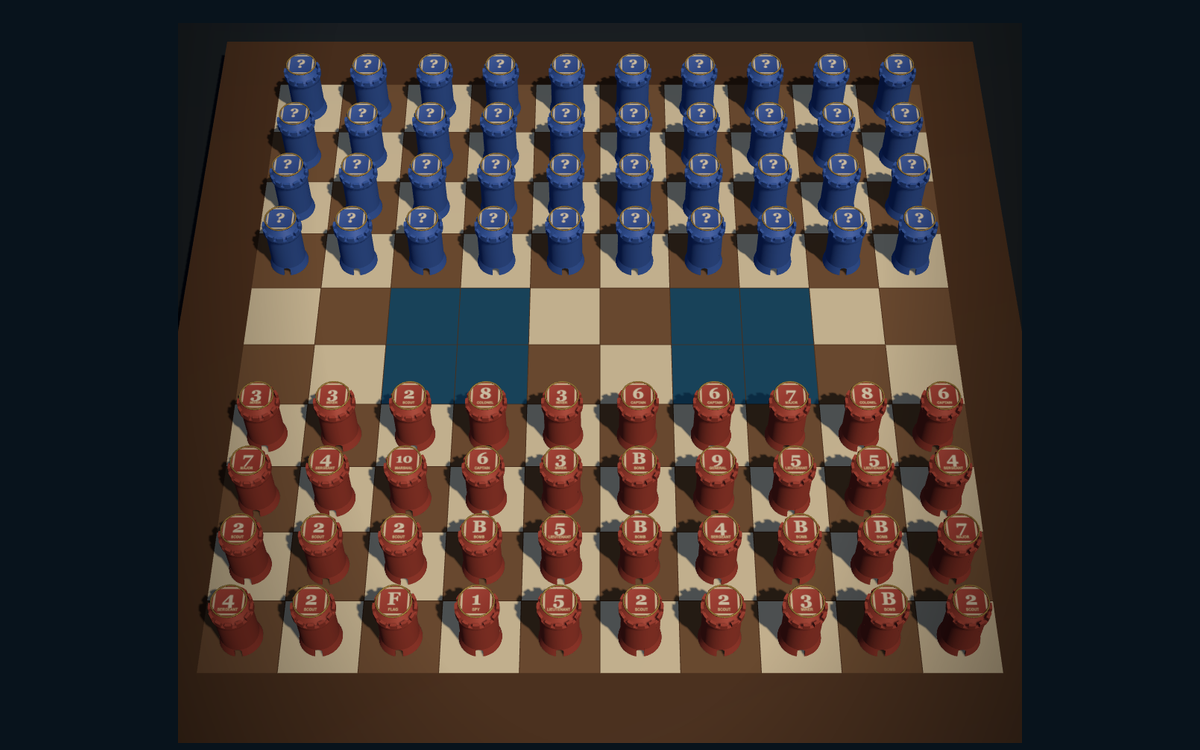
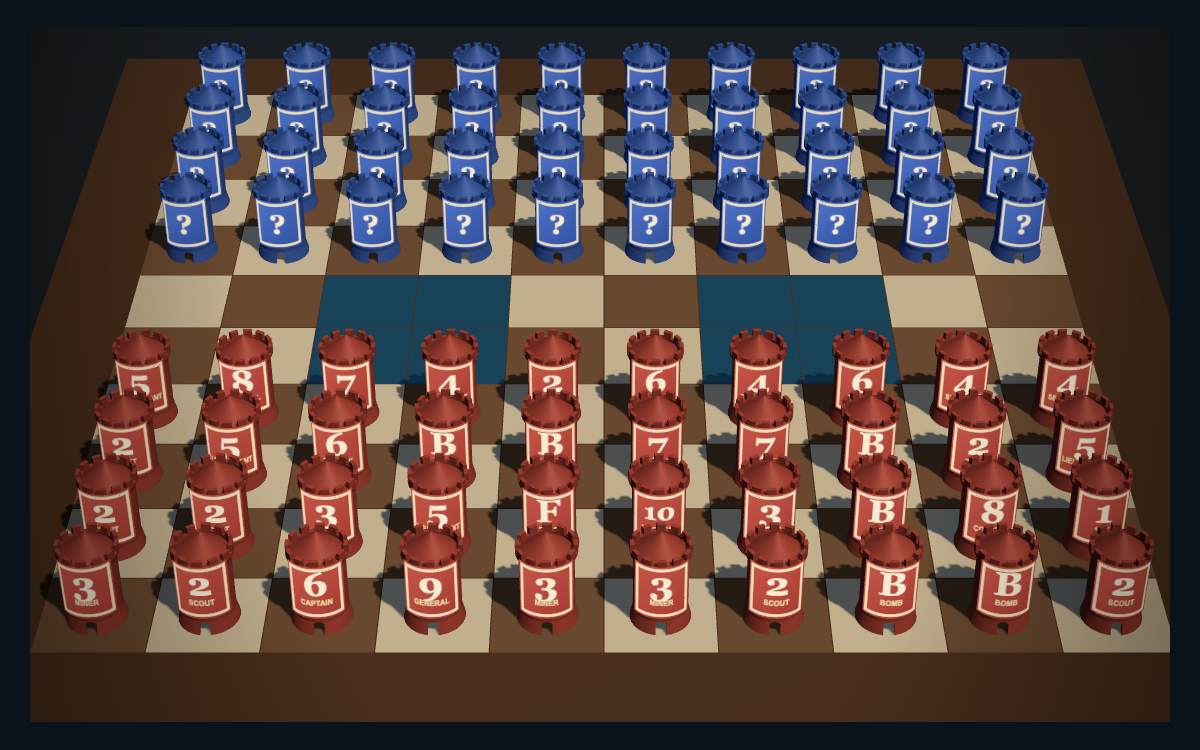
Put Stratego rank plates on the side of each tower
Every piece now carries its number and name on a curved plate wrapped around
the tower, turned towards whoever is playing, with a question mark for pieces
that are still hidden. The plate is lit flat so the printing stays readable in
the board's shadow, and the front-page card was re-shot with the new look.

diff --git a/games/stratego.html b/games/stratego.html
@@ -329,9 +329,9 @@ function labelTexture(rank,side,hidden){
   g.fillStyle='#f7ecd2';g.textAlign='center';g.textBaseline='middle';
   if(hidden){g.font='bold 74px Georgia,serif';g.fillText('?',64,66)}
   else{
-    const big=rank==='10'?56:rank.length>1?56:74;
-    g.font='bold '+big+'px Georgia,serif';g.fillText(rank,64,58);
-    g.font='600 17px Arial Narrow,Arial';g.fillStyle='#f0d9a8';g.fillText(NAME[rank].toUpperCase(),64,100);
+    const big=rank==='10'?58:rank.length>1?60:80;
+    g.font='bold '+big+'px Georgia,serif';g.fillText(rank,64,48);
+    g.font='600 19px Arial Narrow,Arial';g.fillStyle='#f0d9a8';g.fillText(NAME[rank].toUpperCase(),64,91);
   }
   const tex=new THREE.CanvasTexture(cv);tex.colorSpace=THREE.SRGBColorSpace;tex.anisotropy=4;
   texCache.set(k,tex);return tex;
@@ -345,12 +345,18 @@ const brassMat=new THREE.MeshStandardMaterial({color:0xd9b25f,metalness:.7,rough
 
 /* the sculpted tower from files/Tower.stl is the piece body when it loads */
 const TOWER_H=.95;
-let towerGeo=null,towerTopR=.26,towerCapGeo=new THREE.CircleGeometry(.26,26);
+let towerGeo=null,towerTopR=.26,towerMaxR=.26,bandGeo=null;
 const capMats=new Map();
 function capMat(rank,side,hidden){
   const k=rank+side+(hidden?'h':'');
   if(!capMats.has(k))capMats.set(k,new THREE.MeshStandardMaterial({map:labelTexture(rank,side,hidden),roughness:.5,metalness:.05}));
   return capMats.get(k);
+}
+const bandMats=new Map();
+function bandMat(rank,side,hidden){
+  const k=rank+side+(hidden?'h':'');
+  if(!bandMats.has(k))bandMats.set(k,new THREE.MeshBasicMaterial({map:labelTexture(rank,side,hidden)}));
+  return bandMats.get(k);
 }
 (async()=>{
   try{
@@ -366,14 +372,16 @@ function capMat(rank,side,hidden){
     g.computeBoundingBox();
     // widest radius near the top gives the cap its size
     const pos=g.attributes.position,top=g.boundingBox.max.y-.06;
-    let r=.2;
+    let r=.2,maxR=0;
     for(let i=0;i<pos.count;i++){
-      if(pos.getY(i)>=top)r=Math.max(r,Math.hypot(pos.getX(i),pos.getZ(i)));
+      const rad=Math.hypot(pos.getX(i),pos.getZ(i));
+      if(rad>maxR)maxR=rad;
+      if(pos.getY(i)>=top)r=Math.max(r,rad);
     }
     towerTopR=Math.min(.34,r*1.02);
+    towerMaxR=Math.min(.4,maxR+.012);
+    bandGeo=new THREE.CylinderGeometry(towerMaxR,towerMaxR,.58,26,1,true,-.95,1.9);
     towerGeo=g;
-    const capGeo=new THREE.CircleGeometry(towerTopR,26);
-    towerCapGeo=capGeo;
     syncPieces();
   }catch(e){console.warn('Tower.stl failed, using round pieces',e)}
 })();
@@ -382,10 +390,11 @@ function pieceMesh(p,hidden){
   if(towerGeo){
     const body=new THREE.Mesh(towerGeo,sideMat[p.side]);
     body.castShadow=true;body.receiveShadow=true;g.add(body);
-    const cap=new THREE.Mesh(towerCapGeo,capMat(p.rank,p.side,hidden));
-    cap.rotation.x=-Math.PI/2;cap.position.y=TOWER_H+.006;g.add(cap);
-    const ring=new THREE.Mesh(new THREE.TorusGeometry(towerTopR+.012,.011,8,28),brassMat);
-    ring.rotation.x=Math.PI/2;ring.position.y=TOWER_H+.005;g.add(ring);
+    const band=new THREE.Mesh(bandGeo,bandMat(p.rank,p.side,hidden));
+    band.position.y=TOWER_H*.52;
+    if(G.side==='b')band.rotation.y=Math.PI;
+    band.castShadow=false;
+    g.add(band);
   }else{
     const body=new THREE.Mesh(cylGeo,sideMat[p.side]);
     body.castShadow=true;body.receiveShadow=true;g.add(body);
